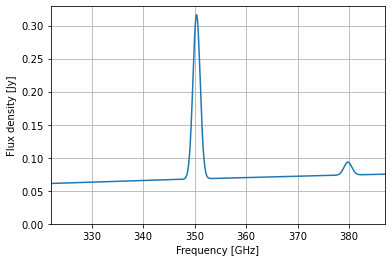
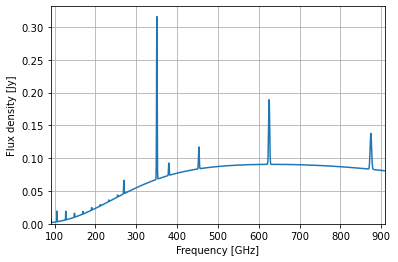
added rescaling of spectral lines

Changed region(s): [[0.0306, 0.0305, 1.0, 0.916], [0.4286, 0.8855, 0.6735, 0.9771], [0.3061, 0.8855, 0.5816, 0.916]]

diff --git a/galspec/spectrumCreate.py b/galspec/spectrumCreate.py
@@ -13,6 +13,7 @@ import numpy as np
 from astropy.cosmology import Planck15 as cosmo
 from matplotlib import pyplot as plt
 from pathlib import Path
+from scipy.stats import norm
 
 
 
@@ -101,15 +102,13 @@ def gaus(x,a,x0,sigma):
 
 def LFIRtoSL(Luminosity,z,variance,COlines='Kamenetzky',lines='Bonato',giveNames='No'):
     '''
-    Input: Luminosity [log (Lo)], redshift (z), variance (0 - no OR 1 - yes), COlines (Kamenetzky OR Rosenboom), lines (Bonato OR Spinoglio), giveNames ('Table', 'Tex' OR 'No').
+    Input: Luminosity [log (Lo)], redshift (z), variance (0 - no OR 1 - yes), COlines (Kamenetzky OR Rosenberg), lines (Bonato OR Spinoglio), giveNames ('Table', 'Tex' OR 'No').
     This will produce a list of frequencies [GHz] and flux densities [Jy], with or without a random variance for the SLs:
     Row 0 to 12: CO (1-0) to CO(13-12)
     Row 13 to 17: SIII, SiII, OIII, NIII, OI,
     Row 18 to 24: OIII, NII, OI, CII, CI, CI, NII
     giveNames toggles returning the names of the spectral lines in a list of strings.
     '''
-    import numpy as np
-    from scipy.stats import norm
     Dl = Dlpen(z,giveAnswerInMeters=True)
     Dlmpc = Dlpen(z,giveAnswerInMeters=False)
     c = 3.0e8
@@ -121,10 +120,11 @@ def LFIRtoSL(Luminosity,z,variance,COlines='Kamenetzky',lines='Bonato',giveNames
     pathK17 = Path(__file__).parent / "K17_Table7"
     pathBonato = Path(__file__).parent / "coeffBonato"
     pathSpin = Path(__file__).parent / "coeff_spinoglio"
+    pathRos = Path(__file__).parent / "COcoeff"
     if COlines == 'Kamenetzky':
         slco = np.genfromtxt(pathK17, skip_header=1, dtype=np.float, delimiter=", ", unpack = False)
-    elif COlines == 'Rosenboom':
-        slco = np.loadtxt(pathK17, dtype=np.float, delimiter=" ", unpack = False)
+    elif COlines == 'Rosenberg':
+        slco = np.loadtxt(pathRos, dtype=np.float, delimiter=" ", unpack = False)
     else:
         print('Did not recognise the CO-lines library, will be using Kamenetzky')
         slco = np.genfromtxt(pathK17, skip_header=1, dtype=np.float, delimiter=", ", unpack = False)
@@ -199,7 +199,7 @@ def LFIRtoSL(Luminosity,z,variance,COlines='Kamenetzky',lines='Bonato',giveNames
         for i in range(13,25):
             #outputArray = variance * (lum / f-width) * (10^26 / 4 pi Dl^2)
             outputArray[i,1]= (sl[i-13,2]**outputArray[i,2]) * (lSun*(10**(sl[i-13,0] * Luminosity - sl[i-13,1]))/(df*outputArray[i,0]*1.e9)) * ((10**26)/(Dl*Dl*4.*np.pi))
-    if COlines != 'Rosenboom':
+    if COlines != 'Rosenberg':
         # This method relies on many galaxies, documented in Kamenetzky
         # They use the unwieldy units of Laccent, which with a bit of effort can give the S_CO
         # The amplitude and the steepness are fitted in the paper, and simulated here.
@@ -208,7 +208,7 @@ def LFIRtoSL(Luminosity,z,variance,COlines='Kamenetzky',lines='Bonato',giveNames
             Laccent = (Luminosity - slco[i,2] - outputArray[i,3]*slco[i,3])/(slco[i,0] + outputArray[i,2]*slco[i,1])
             outputArray[i,1] = (10**Laccent) *((1+z)*((115.*(i+1))**2))/((3.25e7)*(velocity)*(Dlmpc*Dlmpc))
     else:
-        # From Rosenboom's paper, we extract the ratios in luminosity of each line, and then relate that to the CII luminosity
+        # From Rosenberg's paper, we extract the ratios in luminosity of each line, and then relate that to the CII luminosity
         # The variation is exactly that of the CII-line. The CII / CO (1-0) relation is from Stacey.
         # There is no scatter inside the CO-ladder
         for i in range(13):
@@ -229,15 +229,35 @@ def LFIRtoSL(Luminosity,z,variance,COlines='Kamenetzky',lines='Bonato',giveNames
     else:
         return outputArray
 
-def spectrum(luminosity,redshift,fLow=220,fHigh=440,numFreqBins = 1500,linewidth=300):
+def spectrum(luminosity,redshift,fLow=220,fHigh=440,numFreqBins = 1500,linewidth=300,COlines='Kamenetzky',lines='Bonato',manualrescale = 'False', rescaleArray = []):
     """
     Creates a galaxy spectrum consisting of a blackbody continuum and spectral
     lines. Keywords:
     luminosity: in units of log(L_fir [L_sol])
     redshift: z
-    fLow, fHigh: minimum and maximum frequency that will be in the spectrum in units of GHz
-    numFreqBins: amount of linearly spaced frequency bins at which the spectrum should be evaluated
+    fLow, fHigh: minimum and maximum frequency that will be in the spectrum in 
+                 units of GHz
+    numFreqBins: amount of linearly spaced frequency bins at which the spectrum 
+                 should be evaluated
     linewidth: width of spectral lines in units of km/s
+    COlines: 'Kamenetzky' or 'Rosenberg' determines the amplitude of the 
+              CO lines, default is Kamenetzky
+    lines: 'Bonato' or 'Spinoglio' determines the amplitude of the remaining 
+           spectral lines, default is Bonato
+    manualrescale: sets whether the lines should be default ratios by 
+                   Kamenetzky/Rosenberg and Bonato/Spinoglio, or set by user
+                   options: 'False' - default line amplitudes used
+                            'Absolute' - numpy array of 25 line amplitudes in 
+                                        Jy additive to blackbody emission can 
+                                        be set in rescaleArray
+                            'Relative' - numpy array of 25 scalars can be set 
+                                        in rescaleArray. The default ratios 
+                                        from Kamenetzky/Rosenberg are 
+                                        multiplied by these scalars prior 
+                                        to addition to the blackbody spectrum.
+    rescaleArray: rescales the emission lines according to setting in 
+                  'manualrescale'. Order of the lines can be found using 
+                  linenames()
     # Output: freqArray -> array frequencies in units of GHz
     # Output: spectrum -> array of the flux densities in the spectrum in units of Jy
     """
@@ -250,10 +270,22 @@ def spectrum(luminosity,redshift,fLow=220,fHigh=440,numFreqBins = 1500,linewidth
     normLum = giveLuminosity(np.array([spectrum[0],spectrum[0]]),np.array([1,1]),((3.e8)/((1.e9)*np.array([freqArray[0],freqArray[0]]))),redshift,T_cold,T_hot,Ratio,Beta)
     spectrum = (10.**luminosity)*spectrum/normLum
 	# Add the spectrum lines
-    B,names = LFIRtoSL(luminosity,redshift,0,giveNames='Table')
-    for i in range(len(B)):
-        specLine = gaus(freqArray,B[i,1]*(600/linewidth),B[i,0],B[i,0]*linewidth/(3.e5))
-        spectrum += specLine
+    B = LFIRtoSL(luminosity,redshift,0,COlines,lines)
+    if manualrescale == 'Absolute':
+        for i in range(len(B)):
+            specLine = gaus(freqArray,rescaleArray[i],B[i,0],B[i,0]*linewidth/(3.e5))
+            spectrum += specLine
+    elif manualrescale == 'Relative':
+        for i in range(len(B)):
+            specLine = gaus(freqArray,rescaleArray[i]*B[i,1]*(600/linewidth),B[i,0],B[i,0]*linewidth/(3.e5))
+            spectrum += specLine
+    elif manualrescale != 'False':
+        print('Invalid keyword for manualrescale. Assuming \'False\'')
+        manualrescale = 'False'
+    if manualrescale == 'False':
+        for i in range(len(B)):
+            specLine = gaus(freqArray,B[i,1]*(600/linewidth),B[i,0],B[i,0]*linewidth/(3.e5))
+            spectrum += specLine
     return freqArray,spectrum
 
 def plotspectrum(freqArray, spectrumArray):
@@ -270,3 +302,10 @@ def plotspectrum(freqArray, spectrumArray):
     plt.xlim(np.min(freqArray), np.max(freqArray))
     plt.ylim(bottom=0)
     plt.show()
+    
+def linenames():
+    """
+    Returns the names of the spectral lines from spectrum() in order in a numpy array
+    """
+    B, names= LFIRtoSL(12,1,0, giveNames = 'Table')
+    return np.array(names)

diff --git a/README.md b/README.md
@@ -17,25 +17,42 @@ It takes the following inputs:
 * **fLow, fHigh** minimum and maximum frequency that will be in the spectrum in units of GHz
 * **numFreqBins** amount of linearly spaced frequency bins at which the spectrum should be evaluated
 * **linewidth** width of spectral lines in units of km/s
-
+* **COlines** 'Kamenetzky' [1] or 'Rosenberg' [2] determines the amplitude of the CO lines, default is Kamenetzky. 
+* **lines** 'Bonato' [3] or 'Spinoglio' [4] determines the amplitude of the remaining spectral lines, default is Bonato
+* **manualrescale** sets whether the lines should be default ratios by Kamenetzky/Rosenberg and Bonato/Spinoglio, or set by user. Options: 
+	- **'False'** default line amplitudes used
+    - **'Absolute'** numpy array of 25 line amplitudes in Jy additive to blackbody emission can be set in rescaleArray
+    - **'Relative'** numpy array of 25 scalars can be set in rescaleArray. The default ratios from Kamenetzky/Rosenberg are multiplied by these scalars prior to addition to the blackbody spectrum.
+* **rescaleArray** rescales the emission lines according to setting in 'manualrescale'. Order of the lines can be found using ```linenames()```
 
 And creates as output:
 * **freqArray** array frequencies in units of GHz
 * **spectrum** array of the flux densities in the spectrum in units of Jy
+
+[1]: http://dx.doi.org/10.3847/0004-637X/829/2/93
+[2]: https://ui.adsabs.harvard.edu/link_gateway/2015ApJ...801...72R/doi:10.1088/0004-637X/801/2/72
+[3]: https://ui.adsabs.harvard.edu/link_gateway/2014MNRAS.438.2547B/doi:10.1093/mnras/stt2375
+[4]: https://ui.adsabs.harvard.edu/link_gateway/2012ApJ...745..171S/doi:10.1088/0004-637X/745/2/171
+
 
 
 * The spectrum can quickly be plotted using the ```plotspectrum()``` function
 
 This function takes the outputs of ```spectrum()``` as an input and creates a plot with axis labels
 
-## Example
+
+
+* The names of the spectral lines and their order for the ```rescaleArray``` in ```spectrum()``` are outputted in a numpy array.
+
+## Examples
+* Default use
 ```
 import galspec
 
 luminosity = 13.7
 z = 4.43
-fLow = 332 #GHz
-fHigh = 377 #GHz
+fLow = 100 #GHz
+fHigh = 900 #GHz
 numFreqBins = 1500
 linewidth = 600
 gal_freq, gal_flux = galspec.spectrum(luminosity, z, fLow, fHigh, numFreqBins, linewidth)
@@ -45,6 +62,43 @@ galspec.plotspectrum(gal_freq, gal_flux)
 
 ![Example](/example_spectrum.png)
 
+* Using the ratios by Rosenberg and Spinoglio
+```
+import galspec
+
+luminosity = 13.7
+z = 4.43
+fLow = 100 #GHz
+fHigh = 900 #GHz
+numFreqBins = 1500
+linewidth = 600
+gal_freq, gal_flux = galspec.spectrum(luminosity, z, fLow, fHigh, numFreqBins, linewidth, 'Rosenberg', 'Spinoglio')
+
+galspec.plotspectrum(gal_freq, gal_flux)
+```
+![Example2](/example_spectrum_RosSpin.png)
+
+* Using manual ratios to only show CO lines
+```
+import galspec
+
+luminosity = 13.7
+z = 4.43
+fLow = 100 #GHz
+fHigh = 900 #GHz
+numFreqBins = 1500
+linewidth = 600
+
+names = galspec.linenames()
+lines = np.zeros(len(names))
+for i in range(len(names)):
+    if names[i].startswith('CO'): lines[i]=1
+
+gal_freq, gal_flux = galspec.spectrum(luminosity, z, fLow, fHigh, numFreqBins, linewidth, manualrescale = 'Relative', rescaleArray = lines)
+
+galspec.plotspectrum(gal_freq, gal_flux)
+```
+![Example3](/example_spectrum_CO_only.png)
 
 ## Installation
 ```pip install galspec```
@@ -53,3 +107,4 @@ galspec.plotspectrum(gal_freq, gal_flux)
 * ```Numpy```
 * ```astropy```
 * ```matplotlib```
+* ```scipy```
